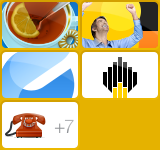
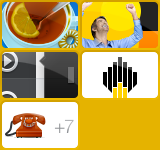
COLT final updates

diff --git a/web-design/code-orchestra/index.htm b/web-design/code-orchestra/index.htm
@@ -1,0 +1,166 @@
+<!doctype html>
+<html>
+<head>
+<meta charset="UTF-8">
+<title>Интерфейсы приложения COLT для Code Orchestra | Владимир Никишин: дизайн и компьютерная графика</title>
+<meta name="Description" content="Владимир Никишин: дизайн и компьютерная графика — Интерфейсы приложения COLT для компании Code Orchestra">
+
+<link rel="index" href="http://nickysheen.ru/sitemap.htm">
+<link rel="home" href="http://nickysheen.ru/">
+<link rel="stylesheet" href="/a/css/footer-menu.css" type="text/css">
+
+<script src="/a/js/scripts.js" type="text/javascript"></script>
+<script type="text/javascript">
+<!--
+top.focus();
+//-->
+</script>
+<style type="text/css">
+<!--
+HTML, BODY { height: 100%}
+BODY { background: #000 url(/a/img/bg.png) repeat-x; color: #606266; font: x-small Arial, Helvetica, sans-serif; font-size/**/:/**/ small; text-align: center; margin: 0; padding: 40px 10px 100px}
+H1 { color: #4C80E5; font: normal 165% "Arial Narrow", Arial, Helvetica, sans-serif}
+#footer_menu { width: 40em !important}
+-->
+</style>
+</head>
+
+<body>
+
+<h1>Интерфейсы приложения COLT для Code Orchestra</h1>
+<p>Photoshop, JavaFX CSS</p>
+
+<img src="/a/_projects/code-orchestra/colt-log.png" alt="Интерфейс приложения COLT: журнал">
+<img src="/a/_projects/code-orchestra/colt-settings.png" alt="Интерфейс приложения COLT: настройки">
+
+<ul id="footer_menu">
+<li class="btn">«Корпоратив», порталы
+<ul>
+<li><a href="http://www.polylog.ru/">PR-агентство «Полилог» (2013)</a></li>
+<li><a href="/web-design/sakh-development-agency/">Сахалинское агентство развития</a></li>
+<li><a href="/web-design/epcc/">Восточная нефтехимическая компания</a></li>
+<li><a href="/web-design/corporate-travel/">Эскиз веб-сайта Corporate Travel</a></li>
+<li><span>PR-агентство «Полилог» (2010)</span>
+<ul>
+<li><a href="/web-design/polylog/">Первая страница</a></li>
+<li><a href="/web-design/polylog/services.htm">Внутренняя страница</a></li>
+</ul>
+</li>
+<li><a href="/web-design/vega/">Объединение «Вега»</a></li>
+<li><a href="/web-design/best-media/">PR-агентство Best Media</a></li>
+<li><a href="/web-design/lukoil/">ЛУКОЙЛ</a></li>
+<li><span>3W Graphics №4</span>
+<ul>
+<li><a href="/web-design/3wg04/en/">Первая страница</a></li>
+<li><a href="/web-design/3wg04/">Внутренняя страница</a></li>
+</ul>
+</li>
+<li><a href="/web-design/expedition/">Проект «Экспедиция»</a></li>
+<li><span>Компания ДВК</span>
+<ul>
+<li><a href="/web-design/dwk/">Первая страница</a></li>
+<li><a href="/web-design/dwk/illustrations.htm">Иллюстрации для «шапок»</a></li>
+</ul>
+</li>
+<li><a href="/web-design/interinet/">Inter-I-Net</a></li>
+<li><a href="/web-design/3wg03/">3W Graphics №3</a></li>
+<li><a href="/web-design/hartly/">Аудиторская фирма «Хартли и Штоккерт»</a></li>
+<li><span>Шаблоны, выполненные по договорам о неразглашении</span>
+<ul>
+<li><a href="/web-design/nda-templates/">Первый</a></li>
+<li><a href="/web-design/nda-templates/02.htm">Второй</a></li>
+<li><a href="/web-design/nda-templates/03.htm">Третий</a></li>
+</ul>
+</li>
+<li><a href="/web-design/3wg02/">3W Graphics №2</a></li>
+<li><a href="/web-design/maximum/">Радио Maximum</a></li>
+</ul>
+</li>
+
+<li class="btn">Онлайн-игры, интернет-казино
+<ul>
+<li><a href="/web-design/bet-play-now/">Букмекерская контора BetPlayNow</a></li>
+<li><a href="/web-design/virtonomica-online-game/">Онлайн-игра «Виртономика»</a></li>
+<li><span>Нарды Pro100games</span>
+<ul>
+<li><a href="/web-design/prostogames-sportsbook-and-casino/">Дизайн сайта</a></li>
+<li><a href="/web-design/prostogames-sportsbook-and-casino/lobby.htm">Дизайн главного меню</a></li>
+<li><a href="/web-design/prostogames-sportsbook-and-casino/game.htm">Дизайн игры</a></li>
+</ul>
+</li>
+<li><a href="/web-design/online-casino-misc-graphics/">Графика для различных интернет-казино</a></li>
+<li><span>Букмекерская контора «Пари-Матч»</span>
+<ul>
+<li><a href="/web-design/pari-match-sportsbook-and-casino/">Тотализатор</a></li>
+<li><a href="/web-design/pari-match-sportsbook-and-casino/wheel.htm">Игра «Колесо удачи»</a></li>
+<li><a href="/web-design/pari-match-sportsbook-and-casino/mega-hi-lo.htm">Игра «Старше-младше»</a></li>
+<li><a href="/web-design/pari-match-sportsbook-and-casino/dice.htm">Игра в кости</a></li>
+<li><a href="/web-design/pari-match-sportsbook-and-casino/hilo/">Игра «Больше-меньше»</a></li>
+<li><a href="/web-design/pari-match-sportsbook-and-casino/keno.htm">Игра «Кено»</a></li>
+</ul>
+</li>
+<li><a href="/web-design/anna-online-casino/">Интернет-казино «Анна»</a></li>
+<li><a href="/web-design/sportingbet/">Рекламная рассылка Sportingbet</a></li>
+<li><span>Игры для интернет-казино</span>
+<ul>
+<li><a href="/web-design/3wg-online-casino-games/blackjack/">Многопользовательский блэкджек</a></li>
+<li><a href="/web-design/3wg-online-casino-games/poker/">Многопользовательский покер</a></li>
+<li><a href="/web-design/3wg-online-casino-games/">Фрагменты дизайна различных игр</a></li>
+<li><a href="/web-design/3wg-online-casino-games/slot-machine/">Игровой автомат</a></li>
+<li><a href="/web-design/3wg-online-casino-games/big-six-6/index.htm">«Колесо фортуны»</a></li>
+<li><a href="/web-design/3wg-online-casino-games/sic-bo/">«Сик бо»</a></li>
+</ul>
+</li>
+<li><a href="/web-design/amazon-online-casino/index.htm">Интернет-казино Amazon</a></li>
+<li><span>Дизайн онлайн-игр для «Яндекса»</span>
+<ul>
+<li><a href="/web-design/online-games-yandex/">Дизайн игры «Пенобол»</a></li>
+<li><a href="/web-design/online-games-yandex/solitaires.htm">Дизайн пасьянсов</a></li>
+<li><a href="/web-design/online-games-yandex/mig.htm">Дизайн игры «Улёт»</a></li>
+<li><a href="/web-design/online-games-yandex/bejeweled.htm">Дизайн игры «Шиномонтаж»</a></li>
+</ul>
+</li>
+<li><span>Дизайн различных онлайн-игр</span>
+<ul>
+<li><a href="/web-design/online-games-misc/">Дизайн игры «Кубинка»</a></li>
+<li><a href="/web-design/online-games-misc/big-tv.htm">Дизайн игры «Приключения электроники»</a></li>
+<li><a href="/web-design/online-games-misc/fifteen.htm">Дизайн игры «Пятнашки»</a></li>
+<li><a href="/web-design/online-games-misc/tetris.htm">Дизайн игры «Тетрис»</a></li>
+<li><a href="/web-design/online-games-misc/rubiks.htm">Дизайн игры «Кубик Рубика»</a></li>
+</ul>
+</li>
+<li><a href="/web-design/crazy-online-casino/">Интернет-казино Crazy Million</a></li>
+<li><a href="/web-design/motown-online-casino/index.htm">Интернет-казино Motown Legends</a></li>
+<li><a href="/web-design/g-galley-online-casino/index.htm">Интернет-казино Golden Galley</a></li>
+<li><a href="/web-design/g-gate-online-casino/index.htm">Интернет-казино Golden Gate</a></li>
+<li><a href="/web-design/1x2-online-casino.htm">Интернет-казино 1x2 Sport</a></li>
+</ul>
+</li>
+
+<li class="btn last">Разное
+<ul>
+<li><a href="http://sms-roman.ru/">Сайт моей книги «Роман в SMSках» — дизайн, разработка, маркетинг</a></li>
+<li><a href="/web-design/code-orchestra/">Интерфейсы приложения COLT</a></li>
+<li><a href="/web-design/icons/">Пиктограммы разных лет</a></li>
+<li><a href="/web-design/russian-regions-gui/">Дизайн интерфейса системы политико-социального мониторинга</a></li>
+<li><a href="/web-design/homepage/">Анимационная заставка моего сайта 2004 года</a></li>
+<li><a href="/web-design/internet-trading-system-interface/">Дизайн интерфейса информационно-торговой системы</a></li>
+<li><a href="/web-design/sitecraft/index.htm">Дизайн веб-интерфейса CMS Sitecraft</a></li>
+<li><a href="/web-design/rao/">Мультимедийная презентация РАО «ЕЭС России»</a></li>
+<li><a href="/web-design/dragonfly-planet-u2/">Проект «Планета стрекоз»</a></li>
+<li><a href="/web-design/intro-ru/">Заставка для сайта «Россия-2000»</a></li>
+</ul>
+</li>
+
+</ul>
+<script type="text/javascript">
+var gaJsHost = (("https:" == document.location.protocol) ? "https://ssl." : "http://www.");
+document.write(unescape("%3Cscript src='" + gaJsHost + "google-analytics.com/ga.js' type='text/javascript'%3E%3C/script%3E"));
+</script>
+<script type="text/javascript">
+try {
+var pageTracker = _gat._getTracker("UA-788503-1");
+pageTracker._trackPageview();
+} catch(err) {}</script>
+</body>
+</html>

diff --git a/a/css/modal.css b/a/css/modal.css
@@ -36,11 +36,12 @@ A.tbn{background-repeat:no-repeat;border-bottom:0 none!important;display:block;t
 .tbn#anna{background-position:-140px -240px}.tbn#sportingbet{background-position:0 -240px}.tbn#various_casino_games{background-position:-280px -160px}
 .tbn#amazon{background-position:-140px -160px}.tbn#yandex{background-position:0 -160px}.tbn#various_online_games{background-position:-280px -80px}.tbn#crazy{background-position:-140px -80px}
 .tbn#motown{background-position:0 -80px}.tbn#galley{background-position:-280px 0}.tbn#golden_gate{background-position:-140px 0}.tbn#sport1x2{background-position:0 0}
-UL.misc A.tbn{background-image:url(/a/img/tbns-misc.png)}.tbn#sms-roman{background-position:-280px -160px}.tbn#rpm{background-position:-140px -160px}.tbn#icons{background-position:0 -160px}
-.tbn#intro_homepage{background-position:-280px -80px}.tbn#its{background-position:-140px -80px}.tbn#sitecraft{background-position:0 -80px}.tbn#rao{background-position:-280px 0}
-.tbn#dragonfly{background-position:-140px 0}.tbn#intro_ru{background-position:0 0}.date{color:#a0a2a6;display:block;padding-top:.4em}UL.social,UL.teaser{list-style-image:none;list-style-type:none;margin:0 0 1.33em;padding:0}
-.list_inline{list-style-image:none;list-style-type:none;margin:0}.list_inline LI{border-left:1px solid #acaeb2;display:inline;margin-left:-7px;padding:0 8px 0 7px}
-HTML+HTML .list_inline LI{border-left:none}.li_first{border-left:none!important}.btn{-webkit-appearance:none;background-color:#3568ce;background-image:-webkit-gradient(linear,0 0,0 100%,from(#4c80e5),color-stop(86%,#36c),to(#3d70d6));background-image:-webkit-linear-gradient(#4c80e5,#36c 86%,#3d70d6);background-image:-moz-linear-gradient(top,#4c80e5,#36c 86%,#3d70d6);background-image:-o-linear-gradient(#4c80e5,#36c 86%,#3d70d6);background-image:linear-gradient(#4c80e5,#36c 86%,#3d70d6);background-repeat:no-repeat;filter:progid:DXImageTransform.Microsoft.Gradient(startColorstr=#4c80e5,endColorstr=#3d70d6,GradientType=0);border:1px solid #2061de;*border:0;border-color:#3670e2 #2061de #2e5cb8;-webkit-border-radius:4px;-moz-border-radius:4px;border-radius:4px;-webkit-box-shadow:inset 0 1px 0 rgba(255,255,255,0.16),0 1px 2px rgba(0,0,0,0.16);-moz-box-shadow:inset 0 1px 0 rgba(255,255,255,0.16),0 1px 2px rgba(0,0,0,0.16);box-shadow:inset 0 1px 0 rgba(255,255,255,0.16),0 1px 2px rgba(0,0,0,0.16);color:#fff;cursor:pointer;display:inline-block;*display:inline;*zoom:1;font-size:100%;line-height:inherit;text-align:center;text-decoration:none;text-shadow:0 -1px 1px rgba(0,0,0,0.44);margin-top:-0.07692307692307693em;*margin-left:.3em;padding:.6153846153846154em 13px;vertical-align:middle}
+UL.misc A.tbn{background-image:url(/a/img/tbns-misc.png)}.tbn#colt{background-position:0 -240px}.tbn#sms-roman{background-position:-280px -160px}.tbn#rpm{background-position:-140px -160px}
+.tbn#icons{background-position:0 -160px}.tbn#intro_homepage{background-position:-280px -80px}.tbn#its{background-position:-140px -80px}.tbn#sitecraft{background-position:0 -80px}
+.tbn#rao{background-position:-280px 0}.tbn#dragonfly{background-position:-140px 0}.tbn#intro_ru{background-position:0 0}.date{color:#a0a2a6;display:block;padding-top:.4em}
+UL.social,UL.teaser{list-style-image:none;list-style-type:none;margin:0 0 1.33em;padding:0}.list_inline{list-style-image:none;list-style-type:none;margin:0}
+.list_inline LI{border-left:1px solid #acaeb2;display:inline;margin-left:-7px;padding:0 8px 0 7px}HTML+HTML .list_inline LI{border-left:none}.li_first{border-left:none!important}
+.btn{-webkit-appearance:none;background-color:#3568ce;background-image:-webkit-gradient(linear,0 0,0 100%,from(#4c80e5),color-stop(86%,#36c),to(#3d70d6));background-image:-webkit-linear-gradient(#4c80e5,#36c 86%,#3d70d6);background-image:-moz-linear-gradient(top,#4c80e5,#36c 86%,#3d70d6);background-image:-o-linear-gradient(#4c80e5,#36c 86%,#3d70d6);background-image:linear-gradient(#4c80e5,#36c 86%,#3d70d6);background-repeat:no-repeat;filter:progid:DXImageTransform.Microsoft.Gradient(startColorstr=#4c80e5,endColorstr=#3d70d6,GradientType=0);border:1px solid #2061de;*border:0;border-color:#3670e2 #2061de #2e5cb8;-webkit-border-radius:4px;-moz-border-radius:4px;border-radius:4px;-webkit-box-shadow:inset 0 1px 0 rgba(255,255,255,0.16),0 1px 2px rgba(0,0,0,0.16);-moz-box-shadow:inset 0 1px 0 rgba(255,255,255,0.16),0 1px 2px rgba(0,0,0,0.16);box-shadow:inset 0 1px 0 rgba(255,255,255,0.16),0 1px 2px rgba(0,0,0,0.16);color:#fff;cursor:pointer;display:inline-block;*display:inline;*zoom:1;font-size:100%;line-height:inherit;text-align:center;text-decoration:none;text-shadow:0 -1px 1px rgba(0,0,0,0.44);margin-top:-0.07692307692307693em;*margin-left:.3em;padding:.6153846153846154em 13px;vertical-align:middle}
 .btn:first-child{*margin-left:0}.btn:hover{background-color:#4c80e5;background-position:0 16px;color:#fff;text-decoration:none;-webkit-transition:background-position .1s linear;-moz-transition:background-position .1s linear;-o-transition:background-position .1s linear;transition:background-position .1s linear}
 .btn:focus{outline:thin dotted #cccfd3;outline:5px auto -webkit-focus-ring-color;outline-offset:-2px}.btn:active,.btn.active{background-color:#4c80e5;background-image:none;-webkit-box-shadow:inset 0 2px 4px rgba(0,0,0,0.12),0 1px 2px rgba(0,0,0,0.12);-moz-box-shadow:inset 0 2px 4px rgba(0,0,0,0.12),0 1px 2px rgba(0,0,0,0.12);box-shadow:inset 0 2px 4px rgba(0,0,0,0.12),0 1px 2px rgba(0,0,0,0.12);outline:0}
 .btn.disabled,.btn[disabled]{background-color:#ced3dd;background-image:none;-webkit-box-shadow:none;-moz-box-shadow:none;box-shadow:none;cursor:default;opacity:.44;filter:alpha(opacity=44)}

diff --git a/index.htm b/index.htm
@@ -50,9 +50,9 @@
     <h2>Recent 5</h2>
     <ul>
     <li><a href="http://sms-roman.ru/" title="My &quot;Texting Novel&quot; website. In Russian only" target="gallery" class="tbn-texting-novel">My &quot;Texting Novel&quot; website design, development and marketing</a></li>
+    <li><a href="/web-design/code-orchestra/en.htm" title="Code Orchestra COLT App GUI Design" target="gallery" class="tbn-colt">Code Orchestra COLT App GUI Design</a></li>
     <li><a href="http://www.polylog.ru/en/index.htm" title="PR agency Polylog website" target="gallery" class="tbn-polylog">PR agency Polylog website design, development and marketing</a></li>
     <li><a href="/web-design/bet-play-now/" title="BetPlayNow betting company website. In Turkish only" target="gallery" class="tbn-betplaynow">BetPlayNow betting company website. In Turkish only</a></li>
-    <li><a href="http://siada.ru/en" title="Sakhalin Development Agency website" target="gallery" class="tbn-sakh-developmant-agency">Sakhalin Development Agency website design and front-end development</a></li>
     <li><a href="/web-design/epcc/" title="Eastern Petrochemical Company website. In Russian only" target="gallery" class="tbn-epcc">Eastern Petrochemical Company website</a></li>
     </ul>
     </div>
@@ -92,9 +92,9 @@
     <h2>5 новинок</h2>
     <ul>
     <li><a href="http://sms-roman.ru/" title="Мой «Роман в SMSках» — дизайн, разработка, маркетинг веб-сайта" target="gallery" class="tbn-texting-novel">Сайт моей книги «Роман в SMSках» — дизайн, разработка, маркетинг</a></li>
+    <li><a href="/web-design/code-orchestra/" title="Интерфейсы приложения COLT" target="gallery" class="tbn-colt">Интерфейсы приложения COLT</a></li>
     <li><a href="http://www.polylog.ru/" title="Веб-сайт PR-агентства «Полилог»: дизайн, программирование, маркетинг" target="gallery" class="tbn-polylog">Дизайн, программирование, маркетинг веб-сайта PR-агентства «Полилог»</a></li>
     <li><a href="/web-design/bet-play-now/" title="Дизайн веб-сайта турецкой букмекерской конторы BetPlayNow" target="gallery" class="tbn-betplaynow">Дизайн веб-сайта турецкой букмекерской конторы BetPlayNow</a></li>
-    <li><a href="/web-design/sakh-development-agency/" title="Дизайн веб-сайта Сахалинского агентства развития" target="gallery" class="tbn-sakh-developmant-agency">Сахалинское агентство развития: дизайн и fron-end разработка веб-сайта </a></li>
     <li><a href="/web-design/epcc/" title="Дизайн веб-сайта «Восточной нефтехимической компании», «дочки» «Роснефти»" target="gallery" class="tbn-epcc">Дизайн веб-сайта «Восточной нефтехимической компании», «дочки» «Роснефти»</a></li>
     </ul>
     </div>

diff --git a/ru/misc.htm b/ru/misc.htm
@@ -22,9 +22,9 @@
 <div class="cfx">
 
 <ul class="misc col1_2">
-    <li>
-    <div><a href="http://sms-roman.ru/" target="gallery">Сайт моей книги «Роман в SMSках»</a><span class="date">2012</span></div>
-    <a href="http://sms-roman.ru/" title="Дизайн сайта моей книги «Роман в SMSках»" target="gallery" class="tbn" id="sms-roman">Дизайн сайта моей книги «Роман в SMSках»</a>
+<li>
+    <div><a href="/web-design/code-orchestra/" target="gallery">Интерфейсы приложения COLT</a><span class="date">2013</span></div>
+    <a href="/web-design/code-orchestra/" title="Интерфейсы приложения COLT компании Code Orchestra" target="gallery" class="tbn" id="colt">Интерфейсы приложения COLT компании Code Orchestra</a>
     </li>
 
     <li>
@@ -45,6 +45,11 @@
 </ul>
 
 <ul class="misc col2_2">
+    <li>
+    <div><a href="http://sms-roman.ru/" target="gallery">Сайт моей книги «Роман в SMSках»</a><span class="date">2012</span></div>
+    <a href="http://sms-roman.ru/" title="Дизайн сайта моей книги «Роман в SMSках»" target="gallery" class="tbn" id="sms-roman">Дизайн сайта моей книги «Роман в SMSках»</a>
+    </li>
+
     <li>
     <div><a href="/web-design/russian-regions-gui/" target="gallery">Система политико-социального мониторинга</a><span class="date">2009</span></div>
     <a href="/web-design/russian-regions-gui/" title="Дизайн интерфейса системы политико-социального мониторинга" target="gallery" class="tbn" id="rpm">Дизайн интерфейса системы политико-социального мониторинга</a></li>

diff --git a/en/misc.htm b/en/misc.htm
@@ -24,8 +24,8 @@
 
 <ul class="misc col1_2">
     <li>
-    <div><a href="http://sms-roman.ru/" target="gallery">My &quot;Texting Novel&quot; website</a><span class="date">2012</span></div>
-    <a href="http://sms-roman.ru/" title="My &quot;Texting Novel&quot; Website Design. In Russian only" target="gallery" class="tbn" id="sms-roman">My &quot;Texting Novel&quot; Website Design. In Russian only</a>
+    <div><a href="/web-design/code-orchestra/en.htm" target="gallery">Code Orchestra COLT App GUI Design</a><span class="date">2013</span></div>
+    <a href="/web-design/code-orchestra/en.htm" title="Code Orchestra COLT App GUI Design" target="gallery" class="tbn" id="colt">Code Orchestra COLT App GUI Design</a>
     </li>
 
     <li>
@@ -46,6 +46,11 @@
 </ul>
 
 <ul class="misc col2_2">
+    <li>
+    <div><a href="http://sms-roman.ru/" target="gallery">My &quot;Texting Novel&quot; website</a><span class="date">2012</span></div>
+    <a href="http://sms-roman.ru/" title="My &quot;Texting Novel&quot; Website Design. In Russian only" target="gallery" class="tbn" id="sms-roman">My &quot;Texting Novel&quot; Website Design. In Russian only</a>
+    </li>
+
     <li>
     <div><a href="/web-design/russian-regions-gui/en/" target="gallery">Political Monitoring System GUI Design</a><span class="date">2009</span></div>
     <a href="/web-design/russian-regions-gui/en/" title="Political Monitoring System GUI Design" target="gallery" class="tbn" id="rpm">Political Monitoring System GUI Design</a></li>

diff --git a/a/css/styles.css b/a/css/styles.css
@@ -48,7 +48,7 @@ DIV.off { display: none}
     .recent LI { margin: 0 0 10px 20px}
         .recent LI A { background: url(/a/img/tbns.png) no-repeat; border-bottom: 0 none !important; display: block; height: 50px; width: 80px}
             .tbn-betplaynow { background-position: -80px 0 !important}
-            .tbn-sakh-developmant-agency { background-position: 0 -50px !important}
+            .tbn-colt { background-position: 0 -50px !important}
             .tbn-epcc { background-position: -80px -50px !important}
             .tbn-polylog { background-position: 0 -100px !important}
 
@@ -69,7 +69,7 @@ DIV.off { display: none}
             .info.en .btn_about A:hover { background-position: -185px -30px}
             .info .btn_contact A { background-position: -285px 0}
             .info .btn_contact A:hover { background-position: -285px -30px}
-        .info .btn_sitemap { margin-right: 0}
+        	.info .btn_sitemap { margin-right: 0}
             .info .btn_sitemap A { background-position: -315px 0}
             .info .btn_sitemap A:hover { background-position: -315px -30px}
 

diff --git a/web-design/3wg-online-casino-games/en/index.htm b/web-design/3wg-online-casino-games/en/index.htm
@@ -196,7 +196,7 @@ AC_FL_RunContent( 'type','application/x-shockwave-flash','data','/a/_projects/3w
 <li class="btn last">Miscellaneous
 <ul>
 <li><a href="http://sms-roman.ru/" title="In Russian only">My &quot;Texting Novel&quot; website</a></li>
-<li><a href="/web-design/code-orchestra/en.html">COLT App GUI Design</a></li>
+<li><a href="/web-design/code-orchestra/en.htm">COLT App GUI Design</a></li>
 <li><a href="/web-design/icons/en/">Various Icons</a></li>
 <li><a href="/web-design/russian-regions-gui/en/">Political Monitoring System GUI Design</a></li>
 <li><a href="/web-design/homepage/en/">Flash Intro of My 2004 Homepage</a></li>

diff --git a/web-design/code-orchestra/en.htm b/web-design/code-orchestra/en.htm
@@ -140,7 +140,7 @@ H1 { color: #4C80E5; font: normal 165% "Arial Narrow", Arial, Helvetica, sans-se
 <li class="btn last">Miscellaneous
 <ul>
 <li><a href="http://sms-roman.ru/" title="In Russian only">My &quot;Texting Novel&quot; website</a></li>
-<li><a href="/web-design/code-orchestra/en.html">COLT App GUI Design</a></li>
+<li><a href="/web-design/code-orchestra/en.htm">COLT App GUI Design</a></li>
 <li><a href="/web-design/icons/en/">Various Icons</a></li>
 <li><a href="/web-design/russian-regions-gui/en/">Political Monitoring System GUI Design</a></li>
 <li><a href="/web-design/homepage/en/">Flash Intro of My 2004 Homepage</a></li>

diff --git a/web-design/dragonfly-planet-u2/en/index.htm b/web-design/dragonfly-planet-u2/en/index.htm
@@ -148,7 +148,7 @@ AC_FL_RunContent( 'codebase','http://download.macromedia.com/pub/shockwave/cabs/
 <li class="btn last">Miscellaneous
 <ul>
 <li><a href="http://sms-roman.ru/" title="In Russian only">My &quot;Texting Novel&quot; website</a></li>
-<li><a href="/web-design/code-orchestra/en.html">COLT App GUI Design</a></li>
+<li><a href="/web-design/code-orchestra/en.htm">COLT App GUI Design</a></li>
 <li><a href="/web-design/icons/en/">Various Icons</a></li>
 <li><a href="/web-design/russian-regions-gui/en/">Political Monitoring System GUI Design</a></li>
 <li><a href="/web-design/homepage/en/">Flash Intro of My 2004 Homepage</a></li>

diff --git a/web-design/dwk/en/illustrations.htm b/web-design/dwk/en/illustrations.htm
@@ -138,7 +138,7 @@ H1 { color: #535559; font: normal 165% "Arial Narrow", Arial, Helvetica, sans-se
 <li class="btn last">Miscellaneous
 <ul>
 <li><a href="http://sms-roman.ru/" title="In Russian only">My &quot;Texting Novel&quot; website</a></li>
-<li><a href="/web-design/code-orchestra/en.html">COLT App GUI Design</a></li>
+<li><a href="/web-design/code-orchestra/en.htm">COLT App GUI Design</a></li>
 <li><a href="/web-design/icons/en/">Various Icons</a></li>
 <li><a href="/web-design/russian-regions-gui/en/">Political Monitoring System GUI Design</a></li>
 <li><a href="/web-design/homepage/en/">Flash Intro of My 2004 Homepage</a></li>

diff --git a/web-design/expedition/en/index.htm b/web-design/expedition/en/index.htm
@@ -133,7 +133,7 @@ BODY {  background: transparent url(/a/_projects/expedition/body.png) repeat-y; 
 <li class="btn last">Miscellaneous
 <ul>
 <li><a href="http://sms-roman.ru/" title="In Russian only">My &quot;Texting Novel&quot; website</a></li>
-<li><a href="/web-design/code-orchestra/en.html">COLT App GUI Design</a></li>
+<li><a href="/web-design/code-orchestra/en.htm">COLT App GUI Design</a></li>
 <li><a href="/web-design/icons/en/">Various Icons</a></li>
 <li><a href="/web-design/russian-regions-gui/en/">Political Monitoring System GUI Design</a></li>
 <li><a href="/web-design/homepage/en/">Flash Intro of My 2004 Homepage</a></li>

diff --git a/web-design/g-gate-online-casino/index.htm b/web-design/g-gate-online-casino/index.htm
@@ -143,7 +143,7 @@ It is just a mockup. I design online games, but do not write source code for the
 <li class="btn last">Miscellaneous
 <ul>
 <li><a href="http://sms-roman.ru/" title="In Russian only">My &quot;Texting Novel&quot; website</a></li>
-<li><a href="/web-design/code-orchestra/en.html">COLT App GUI Design</a></li>
+<li><a href="/web-design/code-orchestra/en.htm">COLT App GUI Design</a></li>
 <li><a href="/web-design/icons/en/">Various Icons</a></li>
 <li><a href="/web-design/russian-regions-gui/en/">Political Monitoring System GUI Design</a></li>
 <li><a href="/web-design/homepage/en/">Flash Intro of My 2004 Homepage</a></li>
